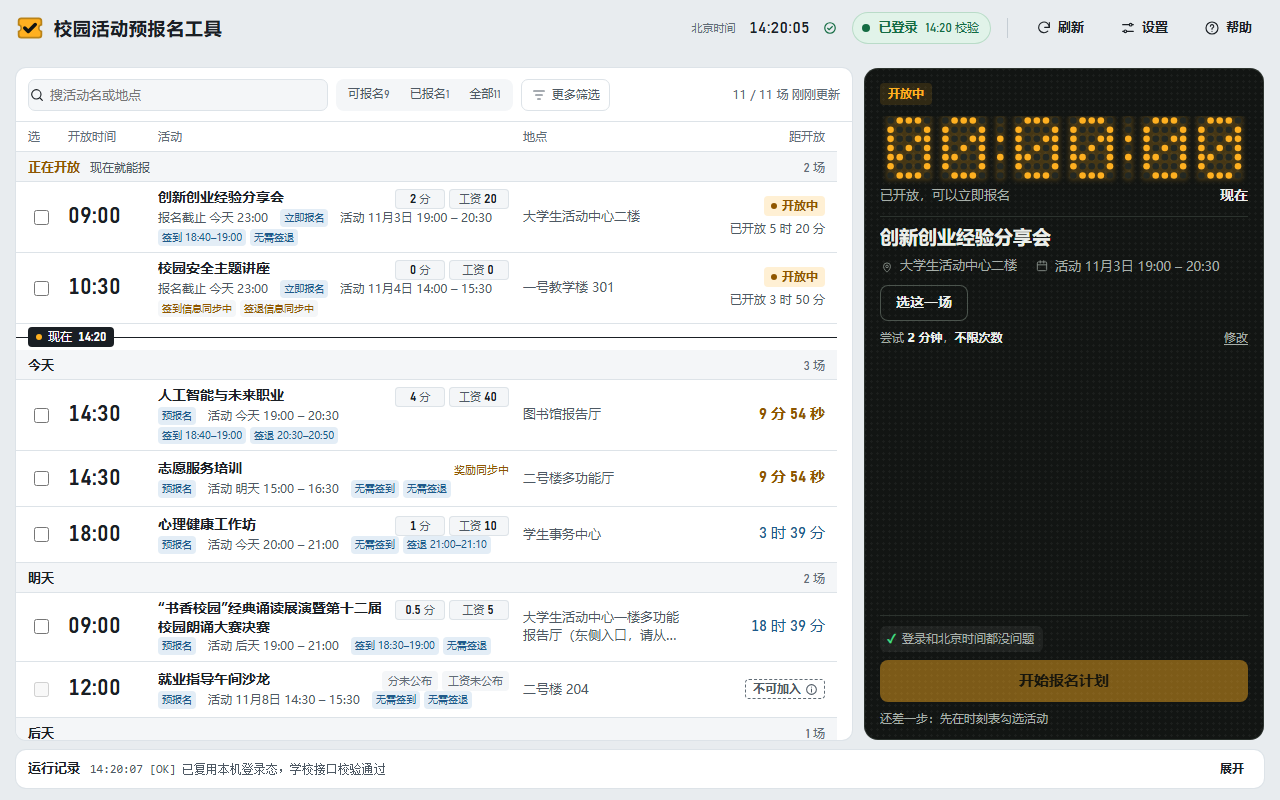
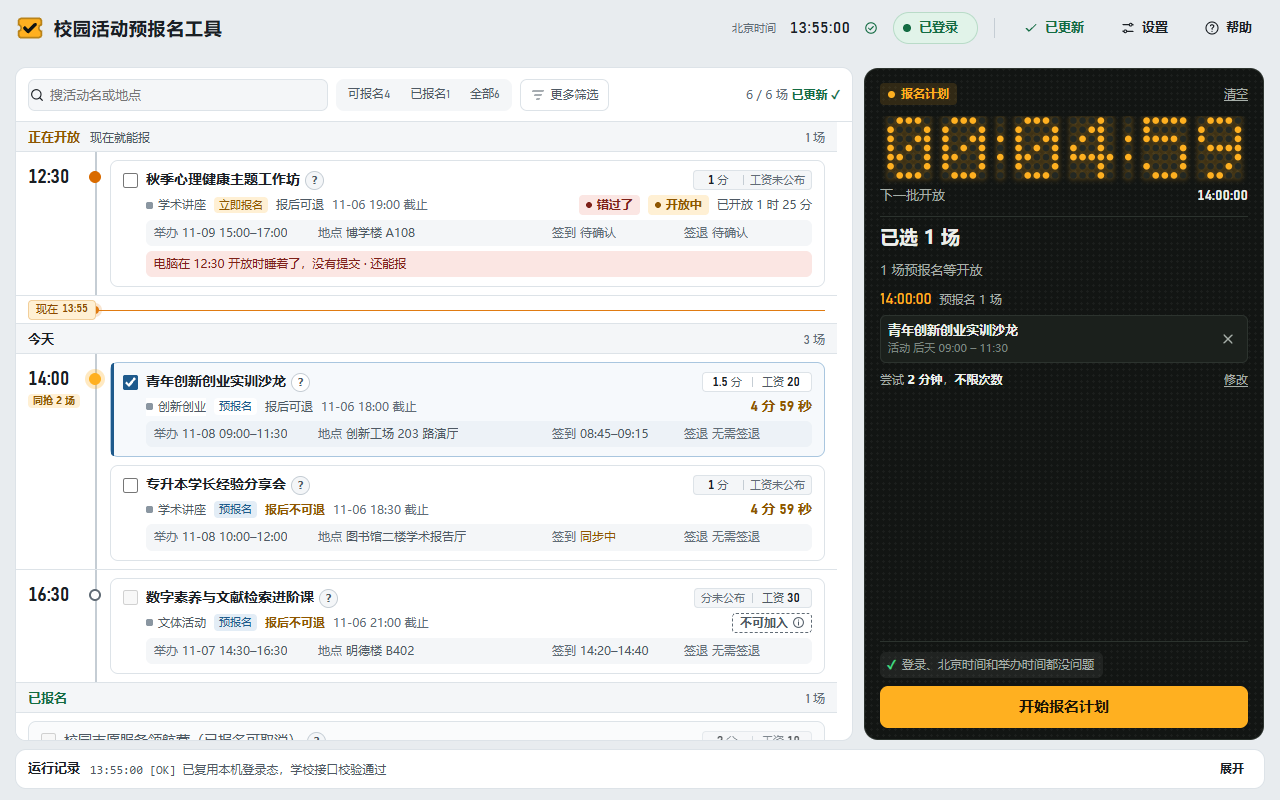
docs(readme): 同步 1.3.0 首页与展示截图
1.3.0 完成了时间轴四层卡片、简介浮层、手机页改版与本机飞书提醒，旧首页文案与截图仍停留在旧版表格样式，因此重写根目录展示页并替换为新版脱敏截图。

放弃改动随包分发的 local/README.md，也未删除不再引用的 conflict-tip.png，以免扩大发版变更范围或擅自删资产。

后续界面功能、截图或发版产物命名调整时若不及时同步，首页引导会再次过时。

Agent: Antigravity

diff --git a/README.md b/README.md
@@ -1,19 +1,26 @@
 <div align="center">
 
-<img src="design/brand/svg/logo.svg" width="88" alt="校园活动预报名工具的标志：一张琥珀色的入场券">
+<img src="design/brand/svg/logo.svg" width="84" alt="校园活动预报名工具的标志：一张琥珀色的入场券">
 
 # 校园活动预报名工具
 
-**把想报的校园活动排进一张时刻表，到开放那一刻自动提交。**
+**把想报的校园活动排进一条时间轴，到开放那一刻自动提交。**
 
-[![最新版本](https://img.shields.io/github/v/release/Env0i/campus-activity-assistant?label=%E6%9C%80%E6%96%B0%E7%89%88%E6%9C%AC&color=e8a33d)](https://github.com/Env0i/campus-activity-assistant/releases/latest)
-[![下载次数](https://img.shields.io/github/downloads/Env0i/campus-activity-assistant/total?label=%E4%B8%8B%E8%BD%BD&color=2f3b45)](https://github.com/Env0i/campus-activity-assistant/releases)
-![Windows 10/11](https://img.shields.io/badge/Windows-10%20%2F%2011-2f3b45?logo=windows&logoColor=white)
-[![License: MIT](https://img.shields.io/badge/License-MIT-2f3b45.svg)](LICENSE)
+<sub>Windows 桌面端 · 手机遥控 · 飞书提醒 · 服务器版</sub>
 
-[下载](#下载) · [三步上手](#三步上手) · [常见问题](#常见问题) · [用户协议](docs/USER_AGREEMENT.md) · [隐私政策](docs/PRIVACY_POLICY.md) · [变更记录](CHANGELOG.md)
+<p>
+<a href="https://github.com/Env0i/campus-activity-assistant/releases/latest"><img src="https://img.shields.io/github/v/release/Env0i/campus-activity-assistant?label=%E6%9C%80%E6%96%B0%E7%89%88%E6%9C%AC&color=e8a33d&style=flat-square" alt="最新版本"></a>
+<a href="https://github.com/Env0i/campus-activity-assistant/releases"><img src="https://img.shields.io/github/downloads/Env0i/campus-activity-assistant/total?label=%E4%B8%8B%E8%BD%BD&color=2f3b45&style=flat-square" alt="下载次数"></a>
+<img src="https://img.shields.io/badge/Windows-10%20%2F%2011-2f3b45?style=flat-square&logo=windows&logoColor=white" alt="Windows 10/11">
+<img src="https://img.shields.io/badge/Python-3.10%2B-2f3b45?style=flat-square&logo=python&logoColor=white" alt="Python 3.10+">
+<a href="LICENSE"><img src="https://img.shields.io/badge/License-MIT-2f3b45?style=flat-square" alt="License: MIT"></a>
+</p>
 
-<img src="docs/images/main-window.png" width="900" alt="主窗口：左边是按开放时间排好的活动时刻表，右边是点阵屏和报名计划">
+[下载](#下载) · [界面一览](#界面一览) · [三步上手](#三步上手) · [可选功能](#可选功能) · [常见问题](#常见问题) · [变更记录](CHANGELOG.md)
+
+<br>
+
+<img src="docs/images/main-window.png" width="900" alt="主窗口：左边是时间轴与四层活动卡片，右边是点阵屏和报名计划">
 
 </div>
 
@@ -21,105 +28,107 @@
 > 这是非官方的个人作品，只适用于一所目标学校的专升本学生端，与学校及其系统运营方没有隶属、合作或授权关系。
 > 它只服务你本人的账号：不代他人报名，不做多账号批量占位。学校接口随时可能调整，工具不保证报名成功。
 
-## 它能帮你做什么
+## 核心能力
 
-学生端的活动一开放就要抢，开放时间又分散在一天里的不同时刻。这个工具把要报的活动排进一张时刻表，到点替你提交，你只需要选好、开着电脑。
+学生端的活动开放时间分散在一天里的不同时刻。工具把要报的活动排进一条时间轴，在开放那一刻按计划为你提交，你只需要选好场次并让电脑保持开机。
 
 <table>
 <tr>
 <td width="50%" valign="top">
 
-### 🗓 一张时刻表
-活动按报名开放时间分组：正在开放、今天、明天、后天……每行写清举办时段、地点、签到签退要求、实践分和虚拟工资。可以搜索、按开放时间和签到要求筛选。只列还能报的，以及你已报名、活动还没结束的。
+### 🗓 时间轴与四层卡片
+活动按报名开放时刻排布成节点，同一时刻有多场未开放时标注「同抢 N 场」。每张卡片分四层展示活动名与奖励、类型标签与报名截止、举办/地点/签到/签退四格，以及冲突或漏报提示；支持搜索与「更多筛选」多选活动类型。
 
 </td>
 <td width="50%" valign="top">
+
+### 🔎 活动简介 `?` 浮层
+点开活动名旁的 `?` 按钮，即可查看活动时间、地点、报名窗口、面向年级与分公司范围及简介正文，不会误触勾选。简介与面向范围严格按纯文本渲染。
+
+</td>
+</tr>
+<tr>
+<td valign="top">
 
 ### ⏱ 到点自动提交
-勾选几场，核对右边的计划，点「开始报名计划」。工具按开放时刻分批，到点直接向学校提交，开放瞬间会在短时间内多次尝试，页面点击只在直接提交不可用时兜底。每场结果单独显示。
+勾选几场、核对右边计划后点「开始报名计划」。工具按开放时刻自动分批，右侧点阵屏实时倒计时；到点优先直连提交并在短时间内重试，不可用时由页面点击兜底，每场结果单独显示。
+
+</td>
+<td valign="top">
+
+### 🚧 冲突拦住与独立北京时间
+与已选或已报名活动的举办时段重叠时提前标出并拦住，可取消的已报名场次支持二次确认取消。业务时间采用独立北京时间，由公共网络授时校准，不读不改本机时间；未校准时不让开始计划。
 
 </td>
 </tr>
 <tr>
 <td valign="top">
 
-### 🚧 冲突提前拦住
-和已选、已报名活动的举办时间重叠，会提前标出来。鼠标停在「不可加入」上，能看到双方时段的时间条和解决办法。还能取消的已报名场次，可以在电脑上取消：先二次确认，结果以向学校复查为准。
+### 📱 手机遥控与飞书提醒（可选）
+开启手机访问后，可经 Tailscale 或 Cloudflare 临时地址查看列表与计划进度、启停计划、输入验证码或重新登录。也可在设置中填入飞书群机器人地址，自动推送报名结果与登录失效提醒。
 
 </td>
 <td valign="top">
 
-### 🕰 独立北京时间
-用公共网络授时校准，不读也不改你电脑的时间设置。北京时间没校准好时不让开始报名，免得掐错点；登录和查看活动不受影响。
-
-</td>
-</tr>
-<tr>
-<td valign="top">
-
-### 📱 手机遥控（可选）
-经 Tailscale 或 Cloudflare 临时地址，用手机看活动和计划进度、开始或停止计划、输入验证码、重新登录。默认关闭，不开就不监听任何端口。
-
-</td>
-<td valign="top">
-
-### 🔐 数据只在你的电脑上
-没有账号体系，没有遥测，不经过任何开发者的服务器。账号密码默认不保存；选择保存时用 Windows 当前用户加密，只有这台电脑能解开。
+### 🔐 本地存储，克制少打扰
+没有账号体系，不经过开发者服务器，也不含遥测。账号密码默认不保存，选择保存时仅用 Windows 当前用户加密；已有列表刷新时保留旧行与勾选，持续性提示条可收起并在顶栏留一个状态点。
 
 </td>
 </tr>
 </table>
+
+## 界面一览
 
 <table>
 <tr>
-<td width="62%" valign="top" align="center">
-<img src="docs/images/conflict-tip.png" alt="冲突提示：模拟面试与已报名的宿舍查寝时间重叠，气泡里画出双方时段和重叠部分"><br>
-<sub>和已报名活动时间重叠时，气泡里画出双方时段，并写清怎么解决</sub>
+<td width="64%" valign="top" align="center">
+<img src="docs/images/desc-modal.png" alt="活动简介浮层：展示活动时间、地点、报名时间、面向范围与纯文本简介"><br>
+<sub>活动简介 <code>?</code> 浮层：时间、地点、报名窗口、面向范围与正文一目了然</sub>
 </td>
-<td width="38%" valign="top" align="center">
-<img src="docs/images/phone.png" width="260" alt="手机页：顶部点阵屏，下面是按开放时间分组的活动列表"><br>
-<sub>手机页：和电脑同一份数据，配对后才能访问</sub>
+<td width="36%" valign="top" align="center">
+<img src="docs/images/phone.png" width="250" alt="手机页：顶部点阵屏，下面是时间轴与四层活动卡片"><br>
+<sub>手机页：同步采用时间轴布局，配对后才能访问</sub>
 </td>
 </tr>
 </table>
 
-<sub>截图里的活动、地点和时间都是演示数据。</sub>
+<sub>截图里的活动、地点、范围与时间均为脱敏演示数据。</sub>
 
 ## 下载
 
-到 [**Releases**](https://github.com/Env0i/campus-activity-assistant/releases/latest) 下载最新版。三种形态的程序本体是同一份 EXE，选一种就够：
+到 [**Releases**](https://github.com/Env0i/campus-activity-assistant/releases/latest) 下载最新版。三种形态的程序本体是同一份 EXE，按习惯选一种即可：
 
 | 文件 | 适合谁 |
 |---|---|
-| **安装版**<br>`campus-activity-watch-installer-vX.Y.Z-win-x64.exe` | 推荐。中文安装向导；卸载时会问要不要一并删除登录数据，默认保留 |
+| **安装版**<br>`campus-activity-watch-installer-vX.Y.Z-win-x64.exe` | **推荐**。中文安装向导；卸载时询问是否一并删除登录数据，默认保留 |
 | **单文件**<br>`campus-activity-watch-vX.Y.Z-win-x64.exe` | 不想安装：拷进任意文件夹，双击就能用 |
-| **完整 ZIP**<br>`campus-activity-watch-vX.Y.Z-win-x64.zip` | 单文件 EXE 加使用说明和协议，解压即用 |
+| **完整 ZIP**<br>`campus-activity-watch-vX.Y.Z-win-x64.zip` | 单文件 EXE 附带使用说明、启动说明和许可，解压即用 |
 
-两个可选组件，需要时再装：在「设置 → 高级功能」里一键下载，或者先从发布页下载，再点「导入已下载的组件包」。
+两个可选组件按需安装：可在「设置 → 高级功能」里一键下载，也可以先从发布页下载，再点「导入已下载的组件包」。
 
 | 组件 | 用来做什么 |
 |---|---|
-| `campus-activity-watch-phone-control-vX.Y.Z-win-x64.zip` | 手机遥控；内置 Cloudflare 通道用的 cloudflared |
+| `campus-activity-watch-phone-control-vX.Y.Z-win-x64.zip` | 手机遥控；内置 Cloudflare 通道所需的 `cloudflared` |
 | `campus-activity-watch-relogin-ocr-vX.Y.Z-win-x64.zip` | 验证码识别；保存账号后，登录失效时能自动登回来 |
 
 **系统要求**：Windows 10 或 11（64 位），需要 WebView2 运行时（Windows 11 自带，Windows 10 一般已随 Edge 装好）。
 
 > [!TIP]
-> 每个版本都附有 `manifest.json`，里面记着每个文件的大小和 SHA-256。下载后可以用 PowerShell 的 `Get-FileHash` 核对。
+> 每个版本都附有 `manifest.json`，记录各文件的大小和 SHA-256。下载后可用 PowerShell 的 `Get-FileHash` 核对。
 
 ## 三步上手
 
-1. **打开工具，读首次说明。** 勾选「我已阅读并同意」后才能登录和报名；不同意也能看帮助和设置。
-2. **登录。** 两种方式，选你放心的那种：
+1. **打开工具，阅读首次说明。** 勾选「我已阅读并同意」后才能登录和报名；不同意也能查看帮助和设置。
+2. **登录学校账号。** 两种方式选你放心的那种：
    - **在这里输入**：账号密码直接发给学校，默认不保存。
    - **用学校登录页**：在学校官方页面里输入。
-3. **勾选活动，开始报名计划。** 在时刻表里勾选想报的场次，核对右边的计划，点「开始报名计划」。到点会自动提交，右边的点阵屏显示倒计时，下面是每场的进度。
+3. **勾选活动，开始报名计划。** 在时间轴里勾选想报的场次，核对右边的计划，点「开始报名计划」。右侧点阵屏会显示倒计时，下面实时显示每场进度。
 
 > [!WARNING]
 > 计划由这台电脑执行。运行期间不要关机、睡眠或退出工具；可以最小化，也可以隐藏到右下角托盘。
-> 关窗口时工具会问你：最小化、隐藏到后台，还是退出。
+> 关闭窗口时工具会询问你的选择：最小化、隐藏到后台，还是退出。
 
-结果以学校为准。看到「待核对」时，到学校活动页确认一下。
+结果以学校为准。看到「待核对」时，请到学校活动页确认实际报名状态。
 
 ## 可选功能
 
@@ -128,46 +137,58 @@
 
 <br>
 
-1. 先装「手机控制」组件（见[下载](#下载)）。
-2. 在「设置 → 高级功能 → 手机访问」选一种通道，点「开启手机访问」，面板会显示二维码和 6 位配对码。
-3. 手机先扫二维码打开页面，再输入配对码。配对码 5 分钟内有效，只能用一次。
+1. 先安装「手机访问」组件（见[下载](#下载)）。
+2. 在「设置 → 高级功能 → 手机访问」选择通道并开启，面板会展示二维码和 6 位配对码。
+3. 手机扫码打开页面后输入配对码；配对码 5 分钟内有效，仅可使用一次。
 
 | 通道 | 特点 |
 |---|---|
-| **Tailscale** | 地址固定，重启后不用重新扫码；需要电脑和手机都装好、登录同一个 Tailscale 网络 |
-| **Cloudflare 临时地址** | 不用另装软件；每次重新开启都会换地址，要重新扫码配对 |
+| **Tailscale** | 地址固定，重启后无需重新扫码；需要电脑和手机登录同一个 Tailscale 网络 |
+| **Cloudflare 临时地址** | 无需另装软件；每次重新开启都会更换地址，需要重新扫码配对 |
 
 > [!NOTE]
-> 走 Cloudflare 通道时，手机和电脑之间的全部往来都经 Cloudflare 的服务器转发，包括你在手机上输入的验证码和账号密码。
-> 走 Tailscale 时数据在设备之间加密传输。发给手机的运行记录会隐去网址和本机路径。详见[隐私政策](docs/PRIVACY_POLICY.md)第 3 节。
+> 走 Cloudflare 通道时，手机与电脑之间的全部往来均经 Cloudflare 服务器转发，包括在手机上输入的验证码和账号密码。
+> 走 Tailscale 时数据在设备间加密传输；发给手机的运行记录会隐去网址与本机路径。详见[隐私政策](docs/PRIVACY_POLICY.md)第 3 节。
 
 更完整的说明见 [docs/PHONE_ACCESS.md](docs/PHONE_ACCESS.md)。
 
 </details>
 
 <details>
-<summary><b>🔁 登录失效后自动登回来</b></summary>
+<summary><b>🔁 失效后自动登录</b></summary>
 
 <br>
 
-学校不公布登录能保持多久，实测大约 10 到 17 小时。登录详情卡里的「预计有效」按登录后 10 小时估算，只作提醒，以学校的实际校验为准。
+学校未公开会话保活时长，实测大约 10 到 17 小时。登录详情卡里的「预计有效」按登录后 10 小时估算，仅作提醒，以学校实际校验为准。
 
-想在失效后自动登回来，需要两样：
+在「设置 → 登录」中可按「失效后自动登录 · 还差 N 步」两步清单启用：
 
-- 在「设置 → 登录」里保存账号密码（用 Windows 当前用户加密，随时可清除）；
-- 装好「验证码识别」组件。
+1. **保存本机账号密码**：使用 Windows 当前用户加密（DPAPI）保存在本机，随时可清除；
+2. **安装验证码识别组件**：用于无人值守识别验证码并恢复登录。
 
-没装验证码识别组件时，失效后会提示你重新登录，验证码由你在电脑或手机上手动输入。
+未安装验证码识别组件时，登录失效会提示你回到电脑或手机端手动输入验证码。
+
+</details>
+
+<details>
+<summary><b>🔔 飞书提醒（本机版）</b></summary>
+
+<br>
+
+在「设置 → 程序 → 飞书提醒」中填入飞书群自定义机器人 Webhook 地址，并可点击发送测试消息确认送达：
+
+- **自动推送**：报名结果与运行中登录失效时自动发到指定飞书群；
+- **完全可选**：不填写地址就不会向飞书发起任何请求，保存时只更新这一项配置。
 
 </details>
 
 ## 数据与隐私
 
-- **存在哪**：登录凭据、活动缓存、设置和运行记录都在 `%LOCALAPPDATA%\TianSoftActivityPreRegistration\data`。换新版本、重新安装都不会丢，删掉这个文件夹就全部清除。
-- **连哪里**：只有四类对外通信——学校系统；网络授时服务；你点检查更新或下载时访问 GitHub；你开启手机访问时经你选的通道。没有遥测和统计。
-- **更新**：只在你点「检查更新」时联网查询。下载安装包后会先核对大小和 SHA-256，什么时候安装由你决定，工具不会自己升级。
+- **存在哪**：登录凭据、活动缓存、设置和运行记录都在 `%LOCALAPPDATA%\TianSoftActivityPreRegistration\data`。升级版本或重新安装不会丢失，删除该目录即可全部清除。
+- **连哪里**：常规对外通信仅四类——学校系统、公共网络授时服务、你主动点击检查更新或下载组件时访问 GitHub、你开启手机访问时经所选通道；如额外配置了本机飞书提醒，则仅在你配置后向你填写的飞书群机器人地址发送通知。不含开发者侧遥测或统计。
+- **更新**：只在你点击「检查更新」时联网查询；下载安装包后会先核对文件大小和 SHA-256，是否安装由你决定，不会静默自升级。
 
-完整内容见[用户协议](docs/USER_AGREEMENT.md)和[隐私政策](docs/PRIVACY_POLICY.md)。条款改版后，程序会请你重新同意一次。
+完整条款见[用户协议](docs/USER_AGREEMENT.md)和[隐私政策](docs/PRIVACY_POLICY.md)。条款修订后会请你重新确认。
 
 ## 常见问题
 
@@ -185,7 +206,7 @@
 
 <br>
 
-能。工具用的是独立的北京时间，不看也不改你电脑的时间。顶栏会显示北京时间是否已校准；校准不了时，登录和查看活动照常，只是暂时不能开始报名。
+能。工具用的是独立的北京时间，不读也不改你电脑的时间。顶栏会显示北京时间是否已校准；校准不了时，登录和查看活动照常，只是暂时不能开始报名。
 
 </details>
 
@@ -194,7 +215,7 @@
 
 <br>
 
-可能会，也可能不会，以实际登录状态为准。反过来，用本工具登录可能让同一账号在别处的登录失效。掉线了点「重新登录」即可；计划运行中登录失效，工具会提醒你。
+可能会，也可能不会，以实际登录状态为准。反过来，用本工具登录也可能让同一账号在别处的登录失效。掉线了点「重新登录」即可；计划运行中登录失效，工具会提醒你。
 
 </details>
 
@@ -203,7 +224,7 @@
 
 <br>
 
-说明提交后学校的回答不明确，工具没法确认。到学校活动页看一眼就知道报没报上。
+说明提交后学校的回答不明确，工具没法确认。到学校活动页看一眼就知道实际是否报上。
 
 </details>
 
@@ -228,29 +249,29 @@
 ## 服务器版（自行部署）
 
 <details>
-<summary>用飞书机器人定时推送活动、群里 @ 查询、私聊预报名</summary>
+<summary>用飞书机器人定时推送活动、群里 @ 查询、私聊预报名与查退选</summary>
 
 <br>
 
-仓库里的 `server/` 是另一个独立的版本：跑在一台常驻的 Linux 上，每天定时把「今天要参加的」「即将开放报名的」活动整理成卡片推到飞书群，可以在群里 @ 机器人查询，部署者本人还可以在私聊里点「预报名」，到点自动报名。
+仓库里的 `server/` 是另一个独立版本，运行在常驻 Linux 上：每天定时把「今天要参加的」「即将开放报名的」活动整理成卡片推到飞书群，支持在群里 `@` 机器人只读查询；部署者本人还可在私聊里预报名（自动校验举办时段冲突）、查询已报名场次、两步确认取消，以及接收活动临近开始、签退和关注场次变动提醒。
 
 | 需要 | 说明 |
 |---|---|
 | 一台 7×24 的 Linux | Ubuntu 22.04，Python 3、Node 20、cron、systemd |
-| 飞书应用 | 只推送用群机器人；要 @ 查询和私聊预报名，需要企业自建应用 |
+| 飞书应用 | 只推送可用群机器人；需 `@` 查询和私聊自助管理时使用企业自建应用 |
 
-按顺序看：[飞书机器人](docs/FEISHU_BOT.md) → [配置](docs/CONFIG.md) → [部署与运维](docs/OPERATIONS.md)。
+按顺序阅读：[飞书机器人](docs/FEISHU_BOT.md) → [配置](docs/CONFIG.md) → [部署与运维](docs/OPERATIONS.md)。
 
 </details>
 
-## 从源码运行
+## 从源码运行与项目结构
 
 <details>
 <summary>开发者看这里</summary>
 
 <br>
 
-需要 Windows 10/11 和 Python 3.10 或更高（测试统一用 3.12）。
+需要 Windows 10/11 与 Python 3.10 或更高版本（开发与测试统一使用 3.12）。
 
 ```bash
 git clone https://github.com/Env0i/campus-activity-assistant.git
@@ -258,34 +279,34 @@ cd campus-activity-assistant
 python -m pip install -r local/requirements.txt
 python -m playwright install chromium
 
-# 不登录，用演示数据看界面
+# 不登录，用脱敏演示数据启动界面
 python local/app.py --demo
 
 # 本机版全量测试（不联网）
 python -m unittest discover -s local/tests -p "test_*.py"
 ```
 
-真实站点地址只从环境变量 `SCHOOL_ORIGIN` 读，不写进仓库。打包和发版用 `tools/release/release.py`：不带参数只做只读检查，`--prepare` 在本地构建全部资产，`--publish` 才对外发布。
+真实站点地址仅从环境变量 `SCHOOL_ORIGIN` 读取，不写进仓库。打包与发版使用 `tools/release/release.py`：不带参数做只读检查，`--prepare` 在本地构建全部产物，`--publish` 需满足干净主分支与人工确认后才对外发布。
 
-参与开发前请先读 [AGENTS.md](AGENTS.md)（授权边界、提交规范、测试注意事项），架构见 [docs/ARCHITECTURE.md](docs/ARCHITECTURE.md)。
+参与开发前请先阅读 [AGENTS.md](AGENTS.md)（授权边界、提交规范、测试注意事项），整体架构见 [docs/ARCHITECTURE.md](docs/ARCHITECTURE.md)。
 
 ```
-├── local/       本机版：图形界面（local/ui/）、报名 worker、打包脚本
-├── server/      服务器版：定时脚本、飞书机器人、部署文件
+├── local/       本机版：桌面界面（local/ui/features/ 与基础层）、报名 worker、打包脚本
+├── server/      服务器版：定时推送、飞书机器人、systemd/cron 部署文件
 ├── contracts/   学校接口的脱敏样例
-├── docs/        工程文档：架构、登录、报名、配置、运维、条款
+├── docs/        工程文档：架构、登录、报名、配置、运维与条款
 ├── design/      产品决策、规格、界面原型与验收截图
-└── tools/       发版与 QA 脚本
+└── tools/       发版脚本、代码结构门禁（tools/code_shape/）与 QA 检查
 ```
 
 | 文档 | 内容 |
 |---|---|
-| [docs/ARCHITECTURE.md](docs/ARCHITECTURE.md) | 数据流、模块职责、接口清单 |
+| [docs/ARCHITECTURE.md](docs/ARCHITECTURE.md) | 数据流、分层职责、接口清单 |
 | [docs/LOGIN.md](docs/LOGIN.md) | 登录态、校验与自动重新登录 |
 | [docs/GRAB.md](docs/GRAB.md) | 报名链路与结果判定 |
-| [docs/PHONE_ACCESS.md](docs/PHONE_ACCESS.md) | 手机访问的通道、配对与安全边界 |
-| [docs/UI_SPEC.md](docs/UI_SPEC.md) | 界面与接口契约 |
-| [design/decisions/](design/decisions/) | 已拍板的产品决策 |
+| [docs/PHONE_ACCESS.md](docs/PHONE_ACCESS.md) | 手机访问通道、配对与安全边界 |
+| [docs/UI_SPEC.md](docs/UI_SPEC.md) | 界面与前后端契约 |
+| [design/decisions/](design/decisions/) | 已拍板的产品决策记录 |
 
 </details>
 
